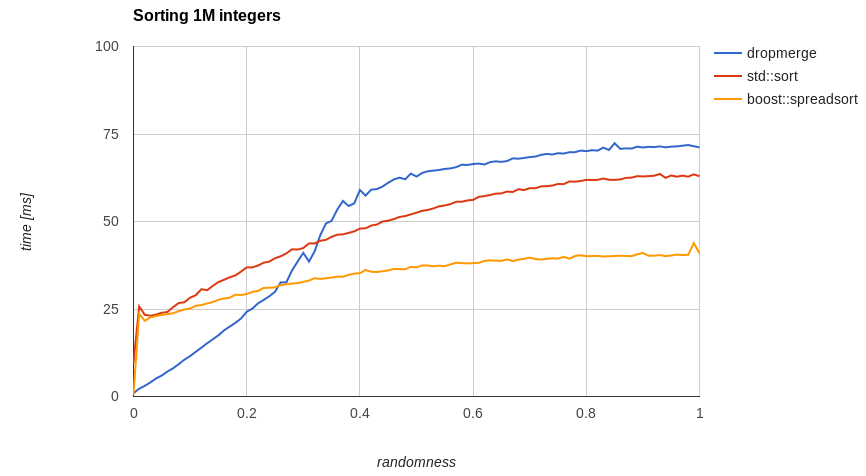
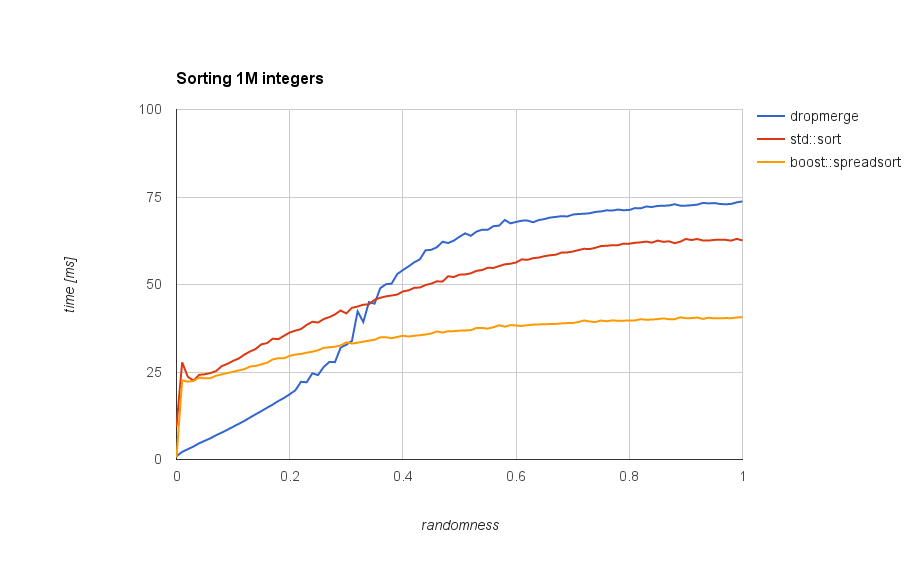
Port double comparison from reference implementation

diff --git a/drop_merge_sort.hpp b/drop_merge_sort.hpp
@@ -25,6 +25,8 @@
 
 namespace detail {
 
+    constexpr static bool double_comparison = true;
+
     // with-trivial-copies version
     template<typename Iter, typename Comp>
     void dmsort(Iter begin, Iter end, Comp comp, std::true_type) {
@@ -44,6 +46,14 @@ namespace detail {
 
         while (read != end) {
             if (begin != write && comp(*read, *(write - 1))) {
+
+                if (double_comparison && num_dropped_in_row == 0 && write > begin+1 && !comp(*read, *(write-2))) {
+                    dropped.push_back(*(write-1));
+                    *(write-1) = *read;
+                    ++read;
+                    continue;
+                }
+
                 if (num_dropped_in_row < recency) {
                     dropped.push_back(*read);
                     ++read;
@@ -103,6 +113,14 @@ namespace detail {
 
         while (read != end) {
             if (begin != write && comp(*read, *(write - 1))) {
+
+                if (double_comparison && num_dropped_in_row == 0 && write > begin+1 && !comp(*read, *(write-2))) {
+                    dropped.push_back(std::move(*(write-1)));
+                    *(write-1) = std::move(*read);
+                    ++read;
+                    continue;
+                }
+
                 if (num_dropped_in_row < recency) {
                     dropped.push_back(std::move(*read));
                     ++read;
